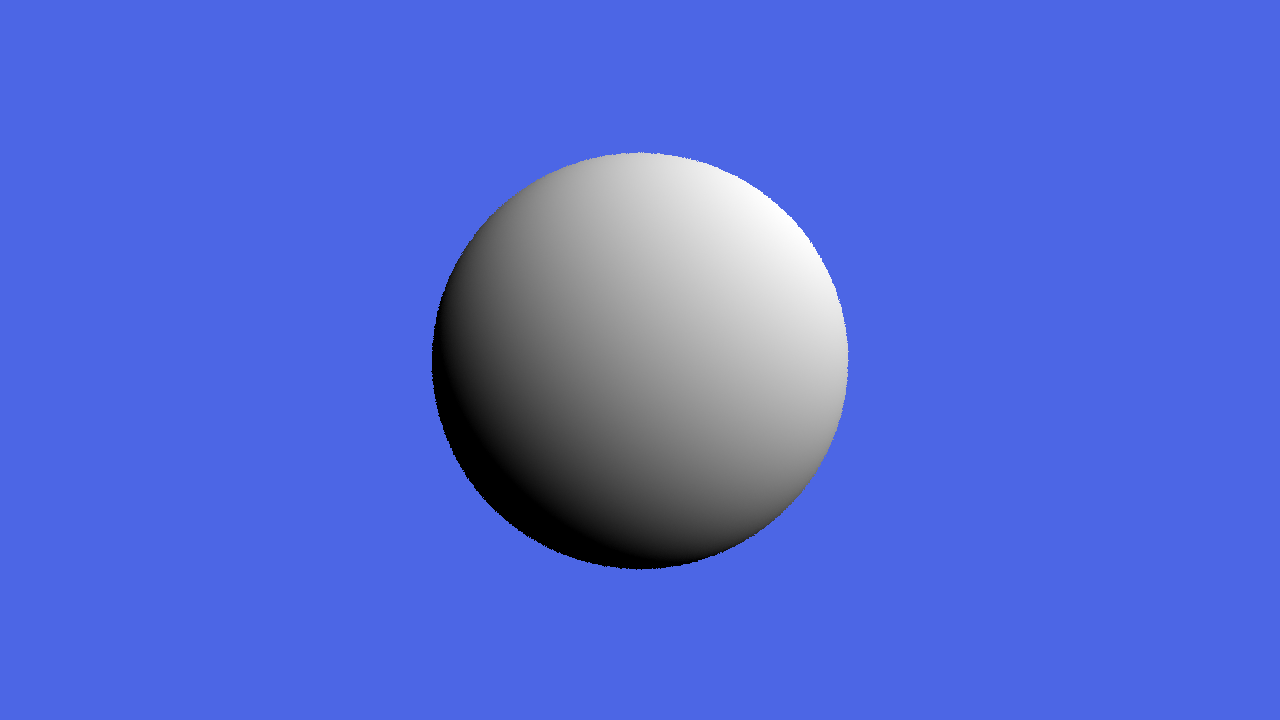
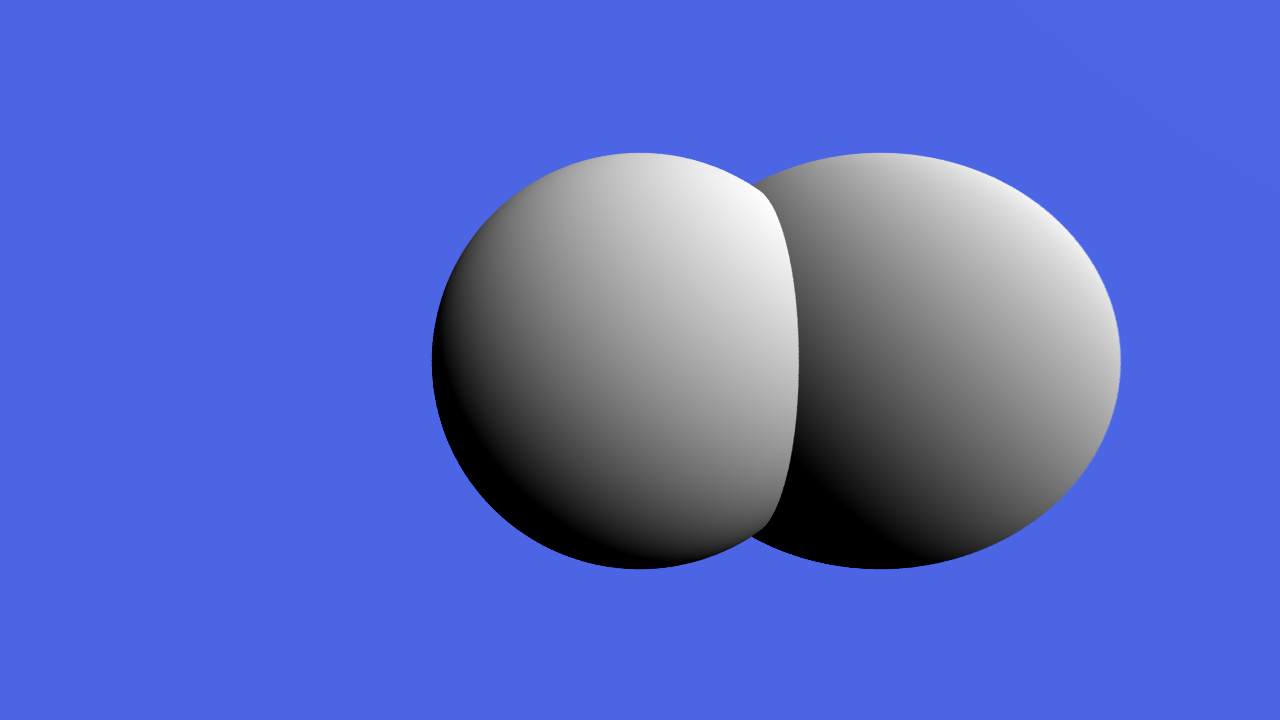
Added periodic render status updates

Changed region(s): [[0.5938, 0.2139, 0.875, 0.7944]]

diff --git a/renderer/renderer.cpp b/renderer/renderer.cpp
@@ -2,6 +2,7 @@
 #include "../util/vec3.hpp"
 #include "../objects/sphere.hpp"
 #include <cmath>
+#include <stdio.h>
 
 Ray StingrayRenderer::camera_ray(const Vec3& uv) {
     Vec3 screen_plane = Vec3(uv.x, uv.y, 1.0f);
@@ -19,7 +20,9 @@ Vec3 StingrayRenderer::ray_shader(Ray& camera, Object *scene, int max_bounces) {
 }
 
 void StingrayRenderer::render(int startX, int startY, int endX, int endY, int samples, Object *scene) {
+    int status_width = startX - endX / 8;
     for (int x = startX; x <= endX; x++) {
+        if (x % status_width == 0) this->buffer.save("_sray_prog.png");
         for (int y = startY; y <= endY; y++) {
             Vec3 uv = Vec3(
                 (float)x / (float)this->buffer.width,

diff --git a/util/img.cpp b/util/img.cpp
@@ -35,8 +35,8 @@ void save_png(const char *filename, int width, int height, unsigned char *pixels
     png_init_io(png, fp);
     png_set_IHDR(png, info, width, height, 8, PNG_COLOR_TYPE_RGB, PNG_INTERLACE_NONE, PNG_COMPRESSION_TYPE_DEFAULT, PNG_FILTER_TYPE_DEFAULT);
     png_write_info(png, info);
-    for (int row = 0; row < height; row++) {
-        png_write_row(png, pixels + row * width * 3);
+    for (int idx = 0; idx < width * height * 3; idx += width * 3) {
+        png_write_row(png, pixels + idx);
     }
     png_write_end(png, NULL);
     png_destroy_write_struct(&png, &info);

diff --git a/main.cpp b/main.cpp
@@ -20,11 +20,12 @@ int main(int argc, char *argv[]) {
     StingrayRenderer renderer = StingrayRenderer(img);
 
     StingrayScene *scene = new StingrayScene({
-        new Sphere(Vec3(0, 0, 1), 0.5)
+        new Sphere(Vec3(0, 0, 1),   0.5),
+        new Sphere(Vec3(0.5, 0, 1), 0.5),
     });
 
         // TODO: multithreading
-    renderer.render(0, 0, IMG_WIDTH - 1, IMG_HEIGHT - 1, 1, scene);
+    renderer.render(0, 0, IMG_WIDTH - 1, IMG_HEIGHT - 1, 32, scene);
 
 
     img.save(filename);
